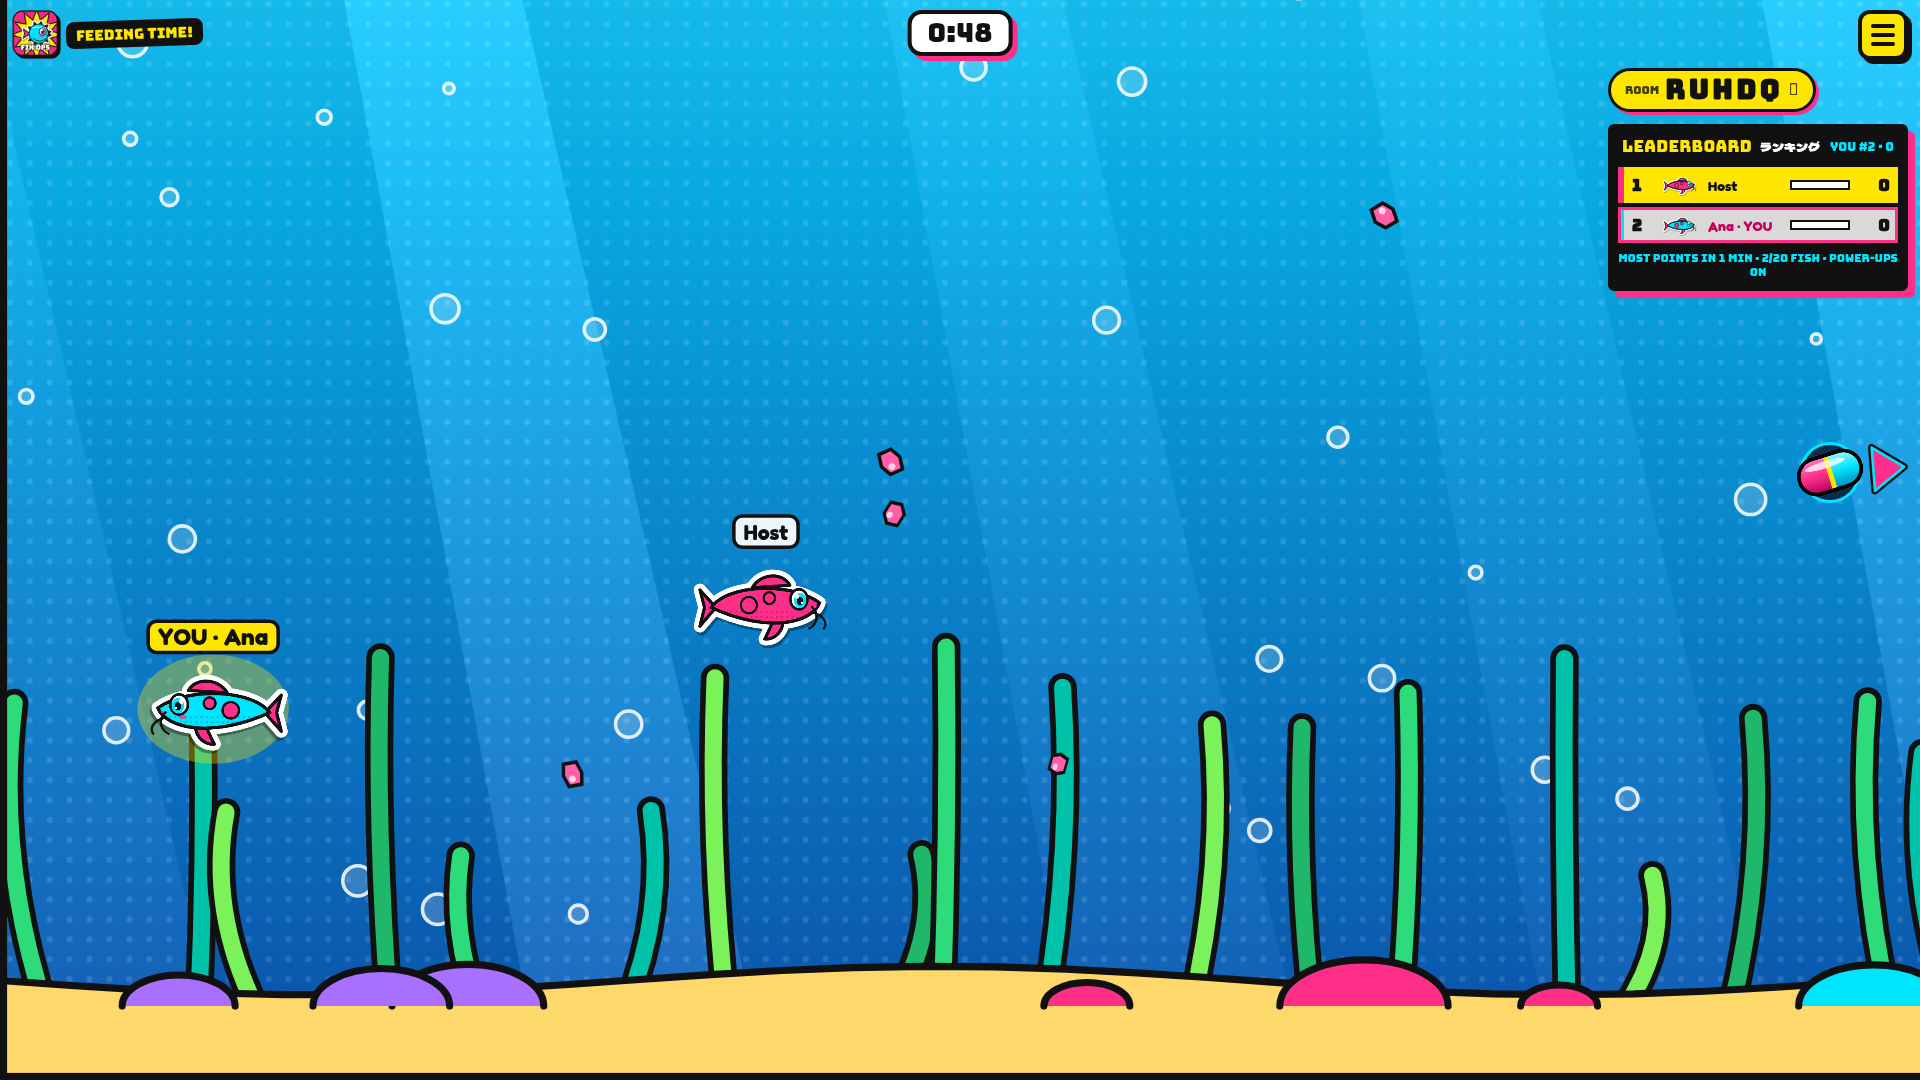
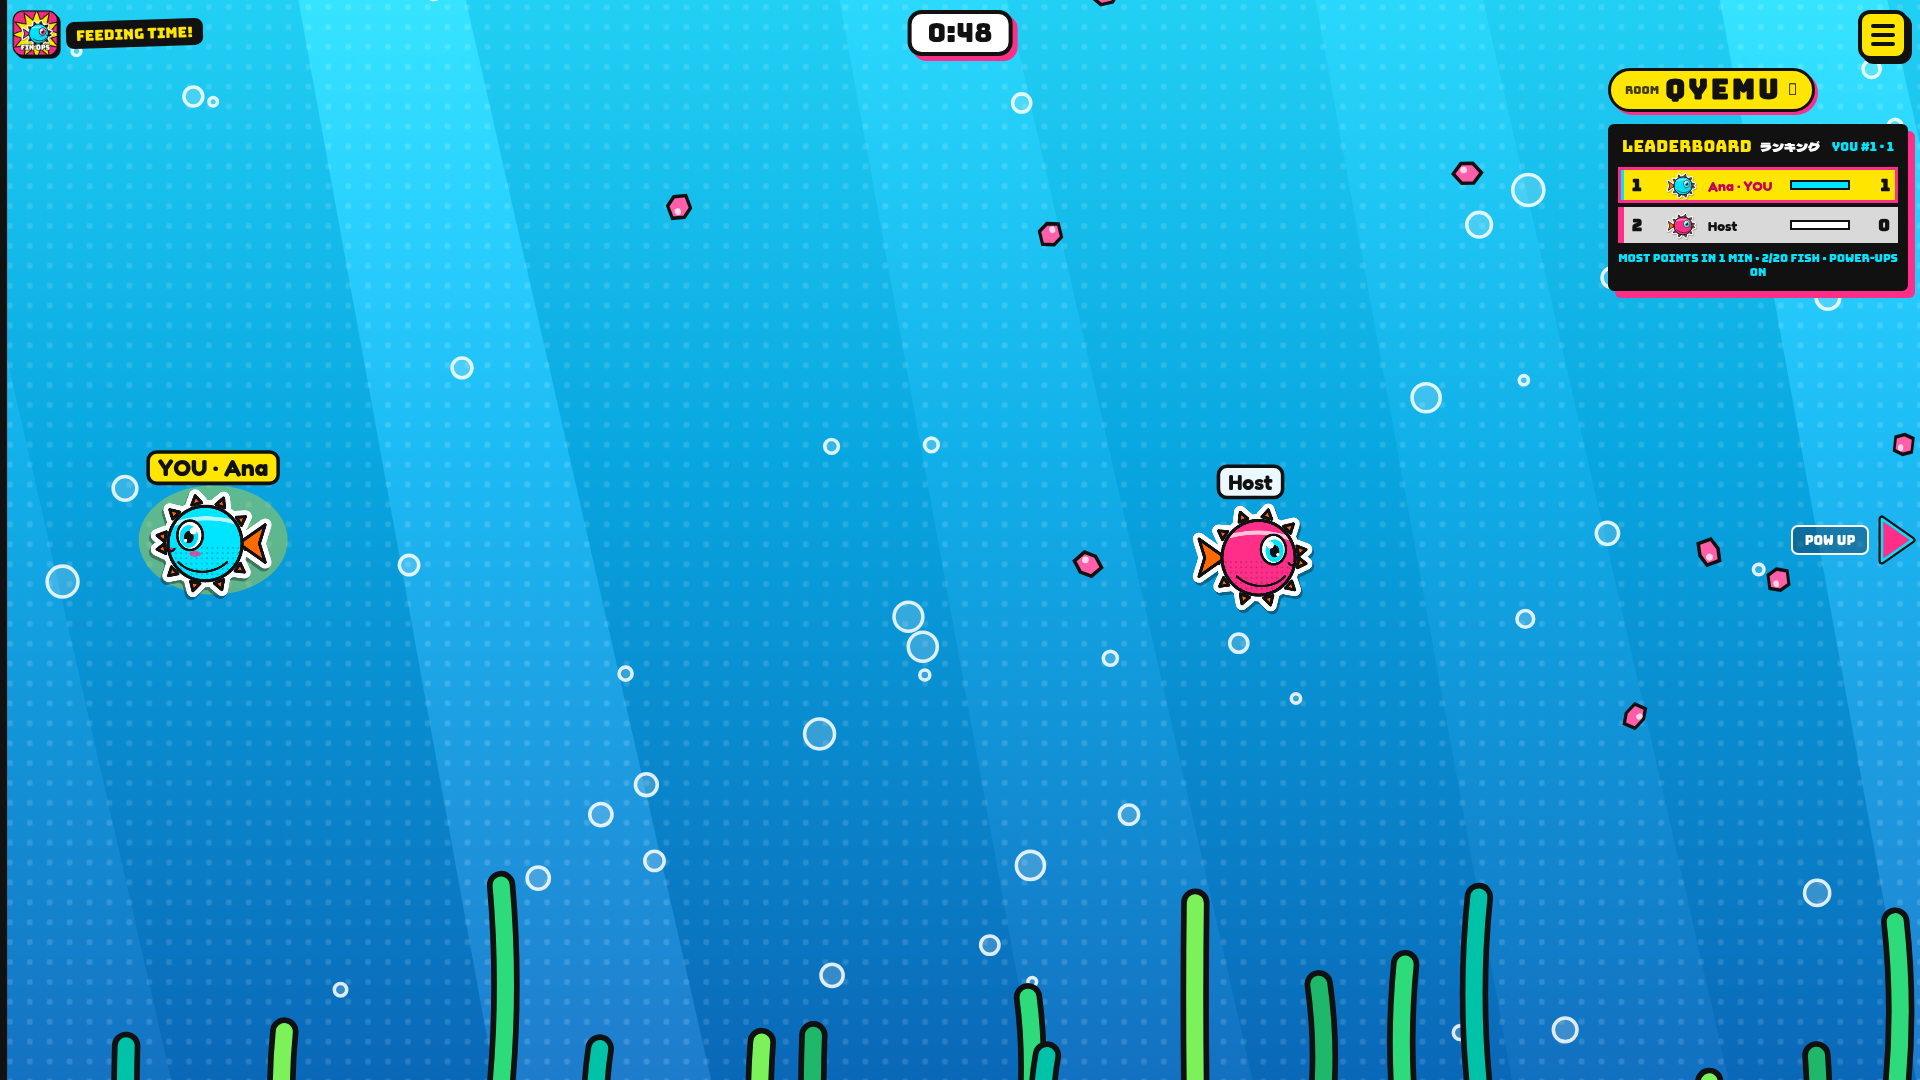
Fin Ops: off-screen pill indicator is a subtle white POW UP box + pink arrow

diff --git a/games/finops/app.js b/games/finops/app.js
@@ -1211,15 +1211,25 @@ function drawBursts(t) {
 }
 // off-screen pointer to the pill, drawn in screen space
 function drawPillArrow(pill, t) {
-  const sx = (pill.x - cam.x) * cam.z + VW / 2, sy = (pill.y - cam.y) * cam.z + VH / 2, m = 90;
+  // off-screen indicator: subtle white "POW UP" box + pink arrow (14px gap from the box edge), no pulse
+  const BW = 76, BH = 28, GAP = 14, AL = 30, AW = 21; // box size, arrow gap / length / half-width
+  const sx = (pill.x - cam.x) * cam.z + VW / 2, sy = (pill.y - cam.y) * cam.z + VH / 2;
   if (sx > 0 && sx < VW && sy > 0 && sy < VH) return;
-  const cx = VW / 2, cy = VH / 2, dx = sx - cx, dy = sy - cy, sc = Math.min((VW / 2 - m) / Math.abs(dx || 1e-6), (VH / 2 - m) / Math.abs(dy || 1e-6));
-  const ax = cx + dx * sc, ay = cy + dy * sc, ang = Math.atan2(dy, dx), pul = REDUCED ? 1 : 1 + 0.12 * Math.sin(t / 120);
-  ctx.save(); ctx.translate(ax, ay); ctx.scale(pul, pul);
-  ctx.fillStyle = 'rgba(17,17,40,.8)'; ctx.strokeStyle = '#00E5FF'; ctx.lineWidth = 3; ctx.beginPath(); ctx.arc(0, 0, 28, 0, 7); ctx.fill(); ctx.stroke();
-  ctx.save(); ctx.rotate(ang); ctx.lineJoin = 'round'; ctx.beginPath(); ctx.moveTo(72, 0); ctx.lineTo(42, -21); ctx.lineTo(42, 21); ctx.closePath();
+  const mx = BW / 2 + GAP + AL + 8, my = BH / 2 + GAP + AL + 8; // keep box + arrow tip fully on screen
+  const cx = VW / 2, cy = VH / 2, dx = sx - cx, dy = sy - cy, sc = Math.min((VW / 2 - mx) / Math.abs(dx || 1e-6), (VH / 2 - my) / Math.abs(dy || 1e-6));
+  let ax = cx + dx * sc, ay = cy + dy * sc;
+  // slide below any HUD panel (leaderboard, room code, timer, menu) it would sit under
+  if (!drawPillArrow.at || t - drawPillArrow.at > 250) { drawPillArrow.at = t; drawPillArrow.hud = ['#board', '#roomTag', '.timer-pill', '.menu-btn'].map((q) => document.querySelector(q)).filter((e) => e && !e.hidden).map((e) => e.getBoundingClientRect()).filter((r) => r.width > 0 && r.height > 0); }
+  for (const r of drawPillArrow.hud) if (ax + mx > r.left && ax - mx < r.right && ay + my > r.top && ay - my < r.bottom) ay = Math.min(VH - my, Math.max(ay, r.bottom + my));
+  if (QS.has('test')) window.__ind = { x: Math.round(ax), y: Math.round(ay) };
+  const ang = Math.atan2(sy - ay, sx - ax), c = Math.abs(Math.cos(ang)), si = Math.abs(Math.sin(ang));
+  const edge = Math.min(c > 1e-6 ? BW / 2 / c : 1e9, si > 1e-6 ? BH / 2 / si : 1e9), base = edge + GAP;
+  ctx.save(); ctx.translate(ax, ay);
+  ctx.fillStyle = 'rgba(17,17,40,.35)'; ctx.strokeStyle = '#fff'; ctx.lineWidth = 2;
+  ctx.beginPath(); if (ctx.roundRect) ctx.roundRect(-BW / 2, -BH / 2, BW, BH, 6); else ctx.rect(-BW / 2, -BH / 2, BW, BH); ctx.fill(); ctx.stroke();
+  ctx.fillStyle = '#fff'; ctx.font = "13px Bungee, Fredoka, sans-serif"; ctx.textAlign = 'center'; ctx.textBaseline = 'middle'; ctx.fillText('POW UP', 0, 1);
+  ctx.save(); ctx.rotate(ang); ctx.lineJoin = 'round'; ctx.beginPath(); ctx.moveTo(base + AL, 0); ctx.lineTo(base, -AW); ctx.lineTo(base, AW); ctx.closePath();
   ctx.strokeStyle = '#111'; ctx.lineWidth = 7; ctx.stroke(); ctx.fillStyle = '#FF2E88'; ctx.fill(); ctx.strokeStyle = '#00E5FF'; ctx.lineWidth = 2.5; ctx.stroke(); ctx.restore();
-  const P = pillSprites(); ctx.rotate(-0.3); ctx.drawImage(P.cap, -P.cw * 0.6, -P.ch * 0.6, P.cw * 1.2, P.ch * 1.2);
   ctx.restore();
 }
 // tank-wide alert when a new pill appears (works for host + clients, and late joiners)
